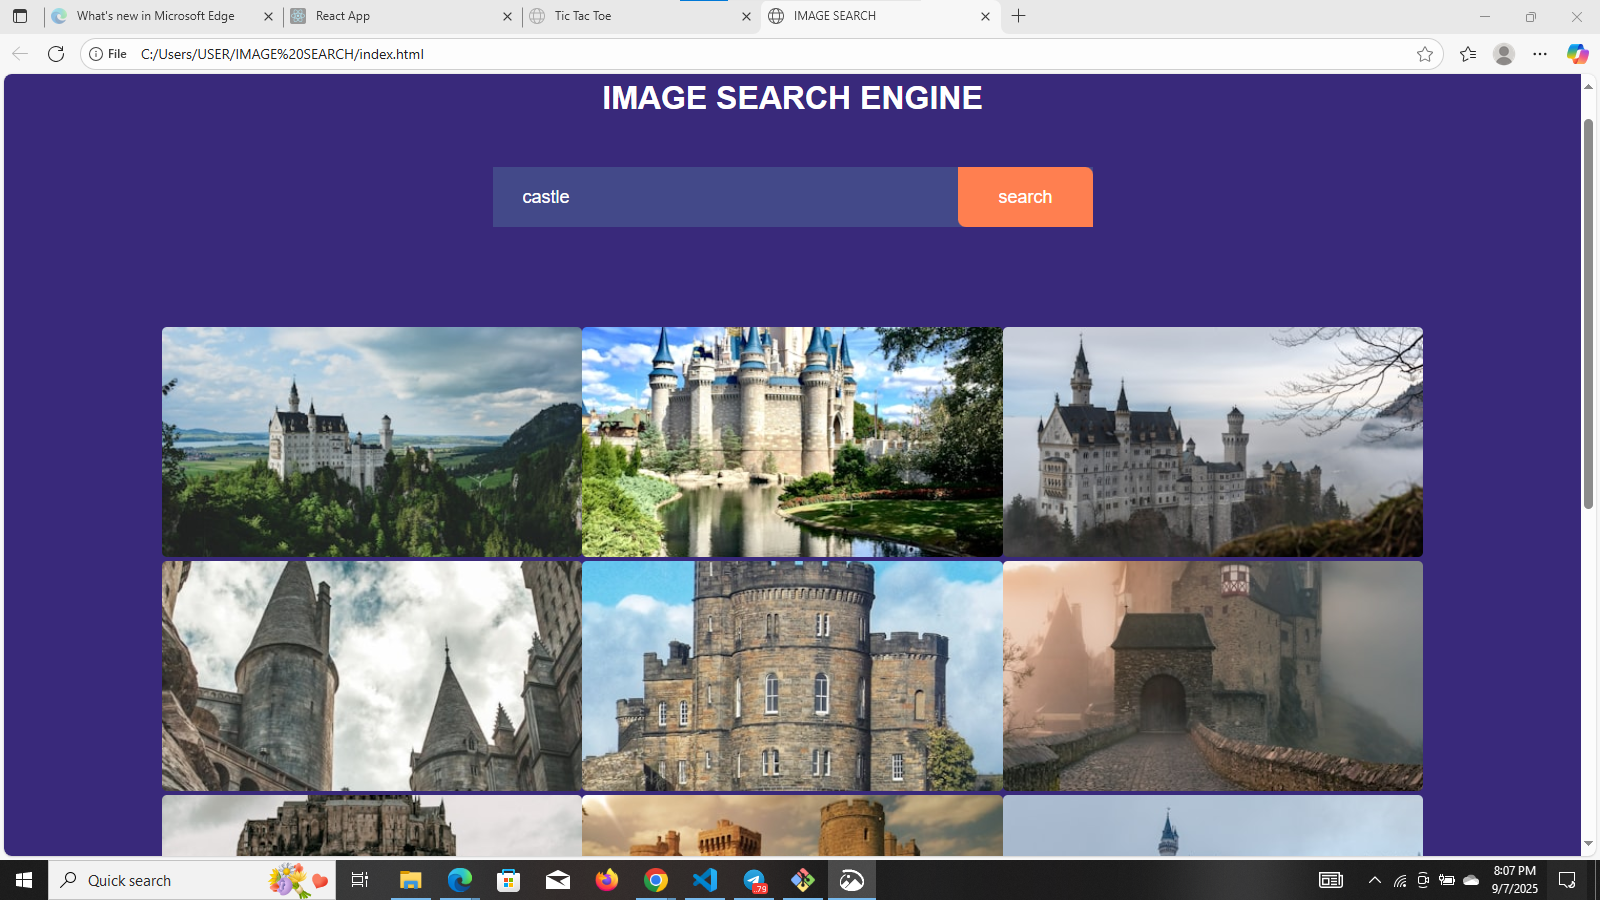
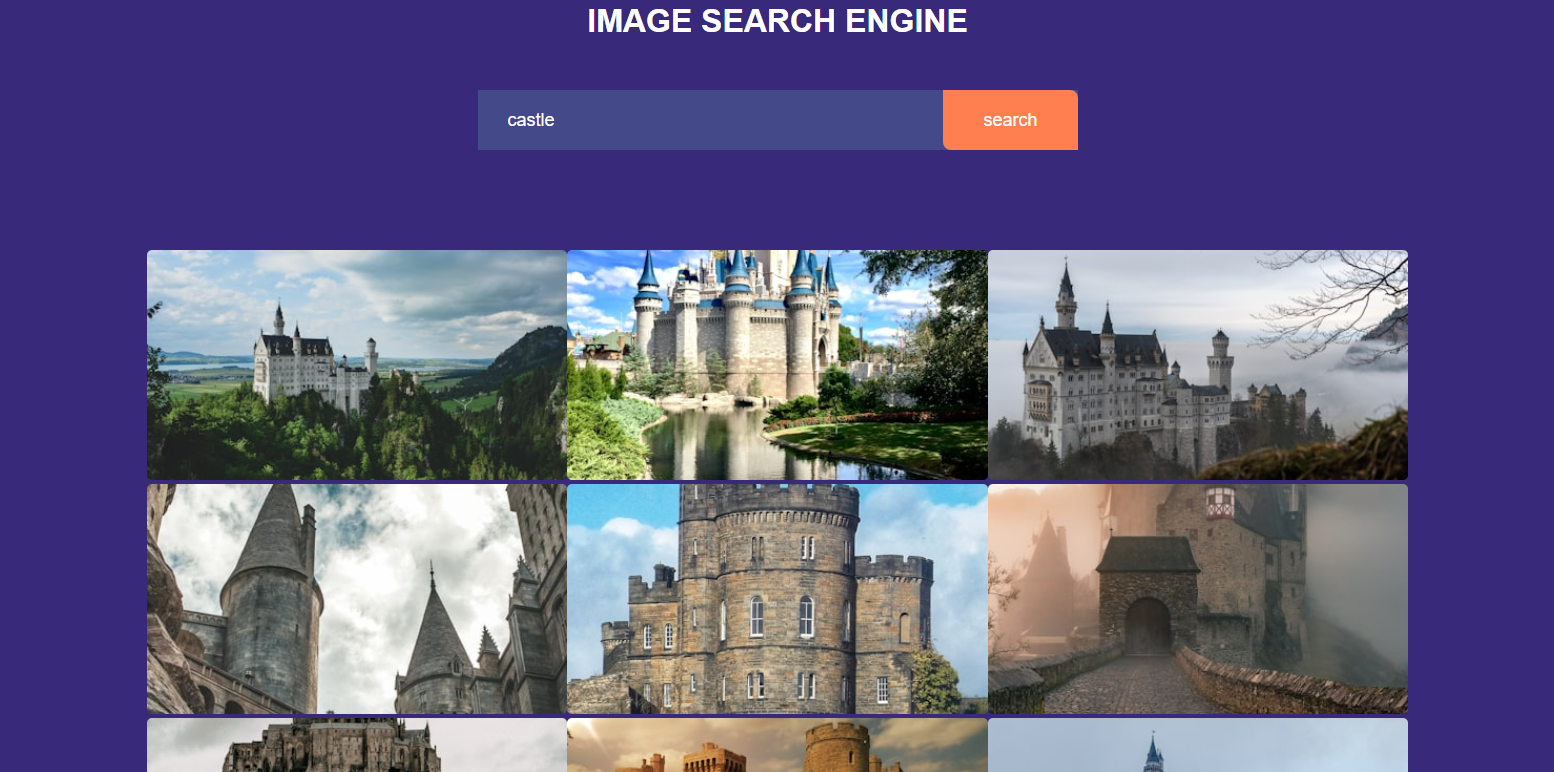
added project

diff --git a/src/components/Project.jsx b/src/components/Project.jsx
@@ -11,18 +11,10 @@ const projectsData = [
     live: "https://image-search-engine-kohl.vercel.app/",
     image: "/project/Annotation 2025-09-07 200544.png", 
   },
-  {
-    id: 2,
-    title: "Blog Website",
-    description: "A simple and interactive Blog Application featuring real-time database management. Users can create, read, and manage blog posts seamlessly.",
-    tech: ["React", "JavaScript", "Firebase"],
-    github: "https://github.com/Agbara286?tab=repositories",
-    live: "https://blog-website-opal-one.vercel.app/",
-    image: "/project/Annotation 2025-09-08 082518.png",
-  },
+
  
    {
-    id: 4,
+    id: 2,
     title: "StudyFeed (wiskAi)",
     description: "A full-stack EdTech SaaS that converts PDF lecture materials into smart flashcards using Gemini AI. Engineered a decoupled Golang backend to handle custom Paystack webhook billing, an automated 3-deck paywall, and secure Row-Level Security database updates via Supabase.",
     tech: ["Next.js", "Golang", "Supabase", "Paystack API", "Gemini AI", "Railway"],
@@ -31,15 +23,34 @@ const projectsData = [
     image: "/project/study.png",
   },
    {
-    id: 5,
+    id: 3,
     title: "Shoe Store Website",
     description: "A modern, responsive e-commerce storefront designed for footwear. Features intuitive product navigation, dynamic cart management, and a sleek user interface optimized for a seamless shopping experience.",
     tech: ["React", "Tailwind CSS", "JavaScript"], 
     github: "https://github.com/Agbara286?tab=repositories",
     live: "https://shoe-store-one-ruby.vercel.app/",
     image: "/project/shoestore.png",
-  }
+  },
+ {
+    id: 4,
+    title: "Saint CMS",
+    description: "A radically simple, zero-config headless CMS featuring a high-performance Go backend engine and an embedded SQLite database. Equipped with a pixel-perfect Next.js admin studio dashboard designed for fast-paced e-commerce product catalogs and client projects.",
+    tech: ["Go", "Next.js", "Tailwind CSS", "SQLite", "Supabase"], 
+    github: "https://github.com/Agbara286/saint-cms",
+    live: "https://saint-docs-8vna5k0i6-elishas-projects-da83bb78.vercel.app/quick-start", 
+    image: "/project/saintcms.png",
+  },
+  {
+    id: 5,
+    title: "Saint CMS Documentation",
+    description: "The official technical documentation site for Saint CMS. Built using the Nextra framework to provide developers and clients with clear, scannable guides on quick-start installations, schema construction, and API deployments.",
+    tech: ["Next.js", "Nextra", "Markdown", "Tailwind CSS"], 
+    github: "https://github.com/Agbara286/saint-docs",
+    live: "https://saint-docs-8vna5k0i6-elishas-projects-da83bb78.vercel.app/",
+    image: "/project/saintdocs.png",
+  },
 ];
+
 
 // Animations
 const fadeUpVariant = {

diff --git a/src/components/About.jsx b/src/components/About.jsx
@@ -56,40 +56,14 @@ export const About = () => {
                 I am absolutely obsessed with crafting pixel-perfect, intuitive UIs, but I don't stop at the surface. I want to build digital products that actually solve real-world problems. While I appreciate a sleek frontend, my favorite playground right now is the backend—specifically writing high-performance, concurrent logic in <span className="text-white font-semibold">Go</span>.
               </p>
               <p>
-                When my IDE is closed, I'm usually diving deep into full-length music albums or nerding out over football (Manchester all the way). My current mission? Just keep building.
+                When my IDE is closed, I'm usually diving deep into full-length music albums or nerding out over football. My current mission? Just keep building.
               </p>
             </motion.div>
           </motion.div>
 
-          {/* Right Column: Bento Box Quick Facts */}
-          <motion.div 
-            className="lg:col-span-5 grid grid-cols-1 sm:grid-cols-2 gap-4"
-            variants={staggerContainer}
-            initial="hidden"
-            whileInView="visible"
-            viewport={{ once: true, margin: "-100px" }}
-          >
-            {/* Box 1 */}
-            <motion.div variants={fadeUpVariant} className="bg-zinc-950 border border-zinc-800/80 p-6 rounded-3xl hover:border-zinc-600 transition-colors">
-              <FiCpu className="text-3xl text-zinc-500 mb-4" />
-              <h3 className="text-white font-bold mb-2">Computer Engineering</h3>
-              <p className="text-sm text-zinc-500">Bringing hardware-level logic to software architecture.</p>
-            </motion.div>
-
-            {/* Box 2 */}
-            <motion.div variants={fadeUpVariant} className="bg-zinc-950 border border-zinc-800/80 p-6 rounded-3xl hover:border-zinc-600 transition-colors sm:-translate-y-4">
-              <FiLayout className="text-3xl text-zinc-500 mb-4" />
-              <h3 className="text-white font-bold mb-2">UI Obsessed</h3>
-              <p className="text-sm text-zinc-500">Pixel-perfect precision and seamless user experiences.</p>
-            </motion.div>
-
-            {/* Box 3 */}
-            <motion.div variants={fadeUpVariant} className="bg-zinc-950 border border-zinc-800/80 p-6 rounded-3xl hover:border-zinc-600 transition-colors">
-              <FiTarget className="text-3xl text-zinc-500 mb-4" />
-              <h3 className="text-white font-bold mb-2">The Mission</h3>
-              <p className="text-sm text-zinc-500">Keep building. Keep learning. Solve real problems.</p>
-            </motion.div>
-        </motion.div>
+          
+          
+    
 
         </div>
       </div>

diff --git a/src/components/Hero.jsx b/src/components/Hero.jsx
@@ -125,7 +125,7 @@ export const Hero = () => {
              
                 { icon: <SiNodedotjs />, name: "Node.js" },
                 { icon: <SiGo />, name: "Go" },
-                { icon: <FaJava />, name: "Java" },
+               
                 { icon: <SiMongodb />, name: "MongoDB" },
                 { icon: <SiSupabase />, name: "Supabase" },
                 { icon: <SiPostgresql />, name: "PostgreSQL" }, 
